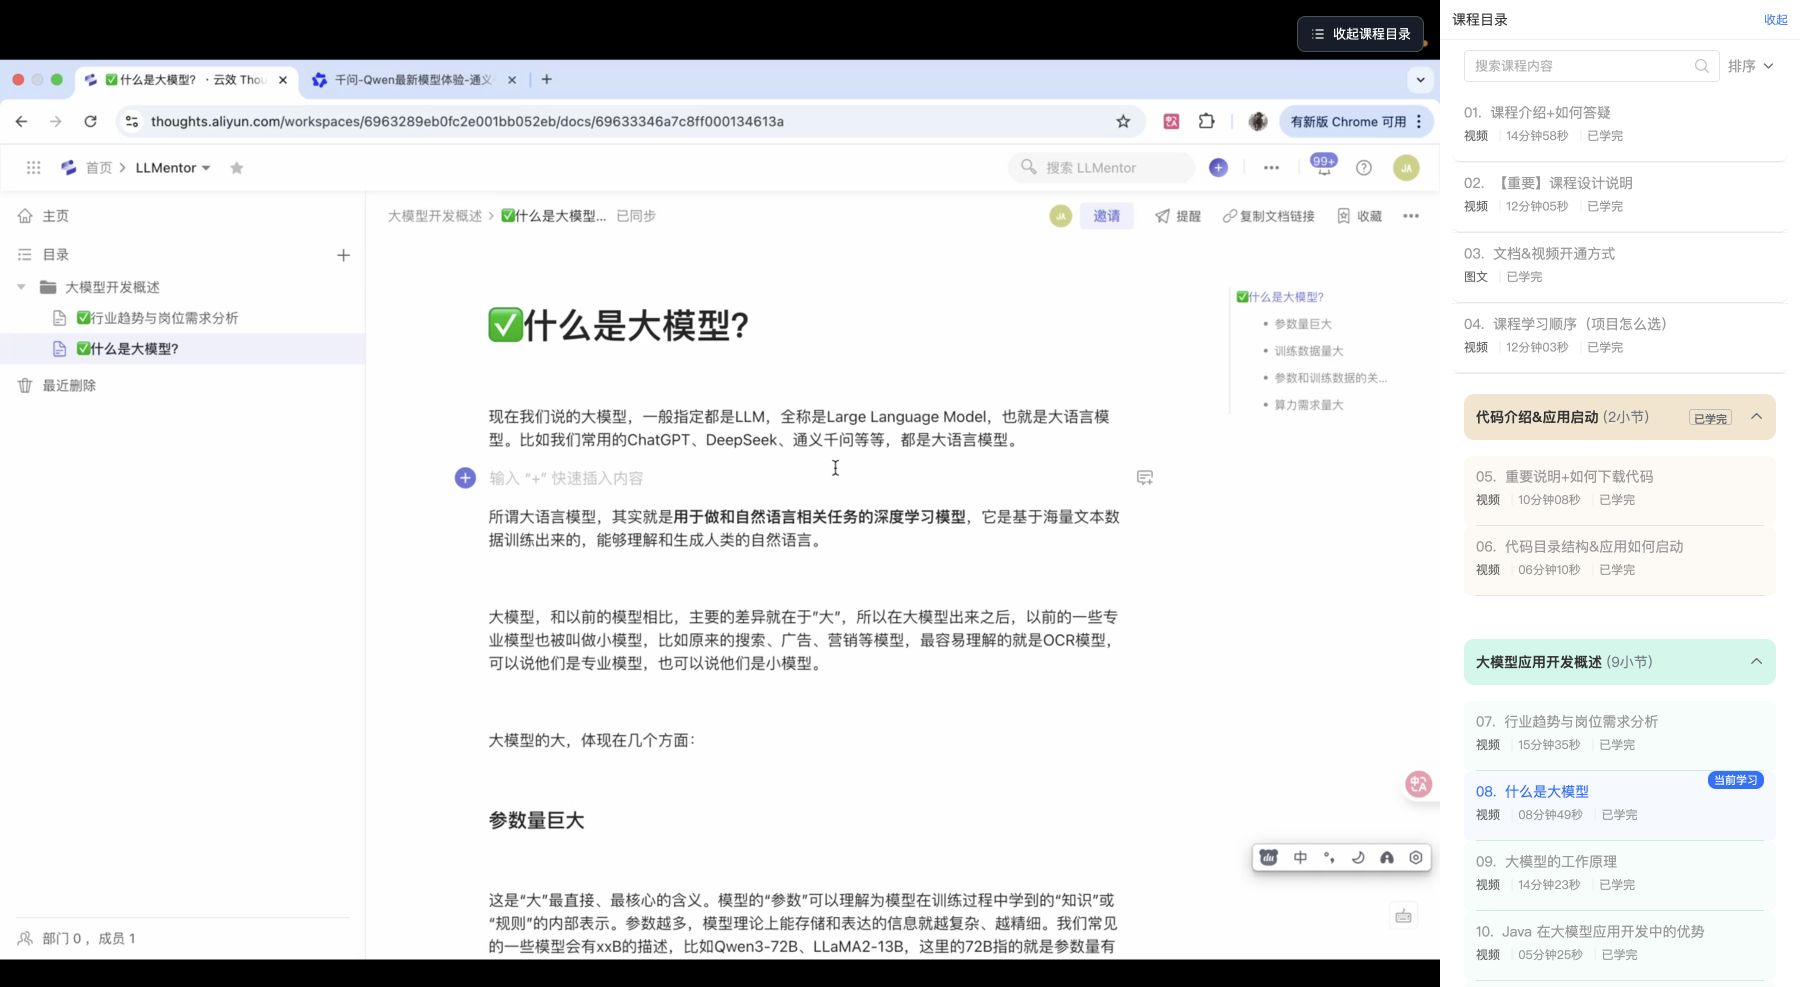
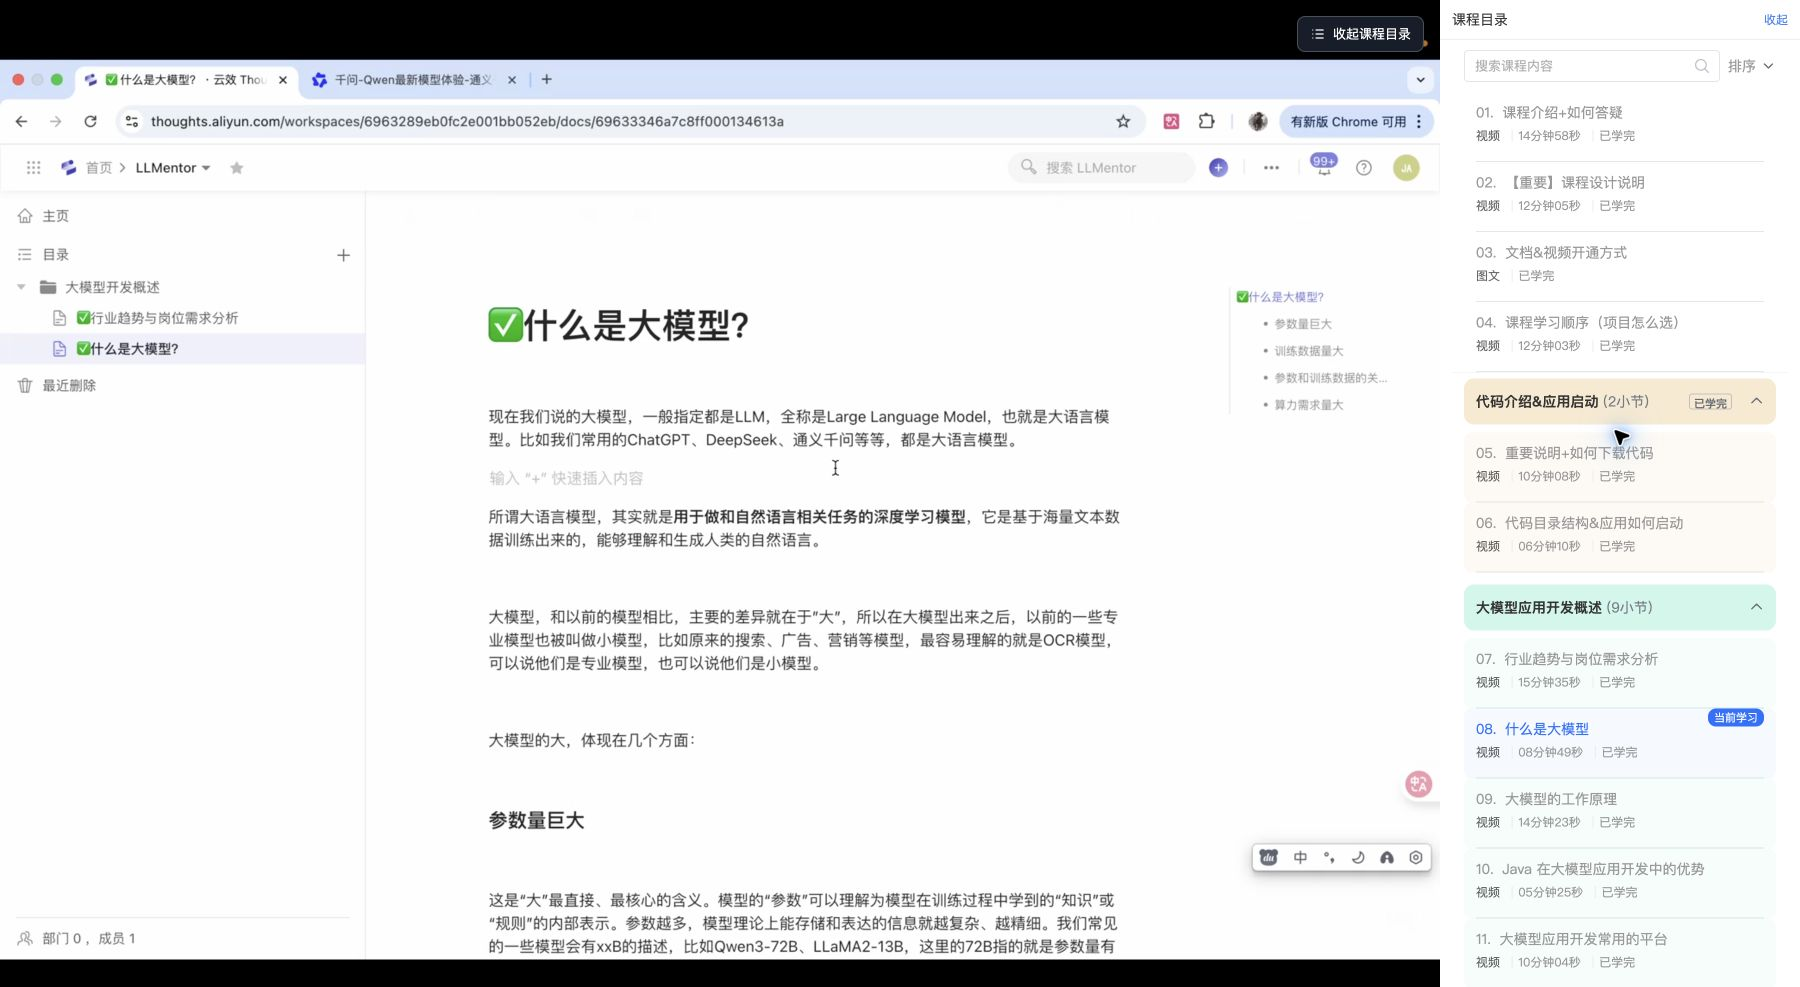
fix: align intro lessons and tighten chapter spacing

diff --git a/xiaoe-catalog-right.user.js b/xiaoe-catalog-right.user.js
@@ -1,7 +1,7 @@
 // ==UserScript==
 // @name         小鹅通课程目录搬到视频右侧
 // @namespace    https://github.com/joeljhou/xiaoe-catalog-right
-// @version      1.11.0
+// @version      1.11.1
 // @description  小鹅通视频右侧内嵌彩色课程目录，支持全屏搜索、左右调宽、右下角可拖动小猫，并记忆清晰度与倍速
 // @author       joeljhou
 // @license      MIT
@@ -163,8 +163,11 @@
       #xe-cat-body .catalog_box{padding:0 12px 16px !important;box-sizing:border-box !important;}
       #xe-cat-body #catalog_box,#xe-cat-body #infinite_list_location{height:auto !important;max-height:none !important;overflow:visible !important;}
       #xe-cat-body .camp_pro_content_catalog .catalog_box{padding:0 !important;}
-      /* 浅色章节标题；底色只用于标题，课时与当前学习状态沿用原站语义。 */
-      #xe-cat-body .el-collapse-item__header{min-height:46px !important;height:auto !important;width:auto !important;box-sizing:border-box !important;padding:10px 12px !important;margin:8px 12px !important;border:0 !important;border-radius:10px !important;background:var(--xe-chapter-color,#f8ead0) !important;color:#333 !important;line-height:21px !important;}
+      /* 统一章节间距，避免原站容器 padding 与标题 margin 叠加。 */
+      #xe-cat-body .chapter_item_box{padding:6px 0 !important;}
+      #xe-cat-body .catalog_list_collapse{border:0 !important;}
+      #xe-cat-body .el-collapse-item{margin:0 !important;}
+      #xe-cat-body .el-collapse-item__header{min-height:46px !important;height:auto !important;width:auto !important;box-sizing:border-box !important;padding:10px 12px !important;margin:0 12px !important;border:0 !important;border-radius:10px !important;background:var(--xe-chapter-color,#f8ead0) !important;color:#333 !important;line-height:21px !important;}
       #xe-cat-body .el-collapse-item__header:hover{filter:brightness(.98);}
       #xe-cat-body .el-collapse-item__header:focus-visible{outline:2px solid #4f6fa5 !important;outline-offset:2px;}
       #xe-cat-body .chapter_title_wrapper{display:flex !important;align-items:center !important;gap:8px;flex:1;min-width:0;}
@@ -174,12 +177,14 @@
       #xe-cat-body .el-collapse-item__arrow{flex-shrink:0;color:#626a73 !important;margin-left:8px !important;}
       #xe-cat-body .catalog_title,#xe-cat-body .title_slot,#xe-cat-body .chapter_title{font-size:14px !important;line-height:21px !important;}
       /* 展开课时使用章节同色的淡底与细分隔线，保留当前学习的蓝色高亮。 */
-      #xe-cat-body .el-collapse-item__wrap{border-bottom:0 !important;background:transparent !important;}
-      #xe-cat-body .el-collapse-item__content{padding-bottom:12px !important;}
-      #xe-cat-body .el-collapse-item .section_item_box{position:relative;margin:0 12px !important;width:calc(100% - 24px) !important;border:0 !important;border-radius:8px !important;}
+      #xe-cat-body .el-collapse-item__wrap{margin-top:8px !important;border-bottom:0 !important;background:transparent !important;}
+      #xe-cat-body .el-collapse-item__content{padding-bottom:0 !important;}
+      #xe-cat-body .infinite_list_chapter_children{margin:0 !important;}
+      #xe-cat-body .el-collapse-item .section_item_box,#xe-cat-body .catalog_list.sectionBox .section_item_box{position:relative;margin:0 12px !important;width:calc(100% - 24px) !important;border:0 !important;border-radius:8px !important;}
       #xe-cat-body .el-collapse-item .section_item_box:not(.last_study_bg){background:#faf8f4 !important;background:color-mix(in srgb,var(--xe-chapter-color,#f8ead0) 22%,white) !important;}
       #xe-cat-body .el-collapse-item .section_item_box::after{content:"";position:absolute;left:12px;right:12px;bottom:0;height:1px;background:color-mix(in srgb,var(--xe-chapter-color,#f8ead0) 65%,#cbd5e1);pointer-events:none;}
-      #xe-cat-body .catalog_list.sectionBox .section_item_box{border-bottom:1px solid #e5e7eb !important;}
+      #xe-cat-body .catalog_list.sectionBox{border:0 !important;}
+      #xe-cat-body .catalog_list.sectionBox .section_item_box::after{content:"";position:absolute;left:12px;right:12px;bottom:0;height:1px;background:#e5e7eb;pointer-events:none;}
       /* 课时条目：真实类名取自 CourseContentCatalog 源码（注意 setions/secitons 是原站拼写） */
       #xe-cat-body .section_item_box{padding:10px 12px !important;height:auto !important;min-height:70px !important;box-sizing:border-box !important;flex-shrink:0 !important;overflow:visible !important;}
       #xe-cat-body .cata_box_right{flex:1 1 auto !important;min-width:0 !important;}

diff --git a/README.md b/README.md
@@ -4,13 +4,13 @@
 
 边看视频，边找课程。把视频下方的目录搬到右侧，全屏也能搜索、切课；收起后，右下角的小猫帮你保留入口。
 
-**1.11.0** · [安装脚本](https://greasyfork.org/zh-CN/scripts/600209) · [MIT 许可证](LICENSE) · [更新记录](CHANGELOG.md)
+**1.11.1** · [安装脚本](https://greasyfork.org/zh-CN/scripts/600209) · [MIT 许可证](LICENSE) · [更新记录](CHANGELOG.md)
 
 ## 一眼看懂
 
 ![原站目录在视频下方，安装后目录内嵌在视频右侧](docs/images/before-after.png)
 
-以上是同一课程的真实 Chrome 页面截图：左侧为未启用本脚本，右侧为启用 1.11.0。截图裁掉顶部账号导航，并隐藏账号水印；其余页面内容为实际渲染。
+以上是同一课程的真实 Chrome 页面截图：左侧为未启用本脚本，右侧为启用 1.11.1。截图裁掉顶部账号导航，并隐藏账号水印；其余页面内容为实际渲染。
 
 ## 全屏也能找课
 
@@ -28,7 +28,7 @@
 
 ## 章节更好找
 
-章节标题用柔和浅色区分，展开的课时用同色系淡底与细分隔线承接。「当前学习」继续保持蓝色高亮，搜索或排序后章节颜色不变。
+独立课时、章节标题与展开课时统一左右缩进，章节间距保持紧凑。章节标题用柔和浅色区分，展开的课时用同色系淡底与细分隔线承接。「当前学习」继续保持蓝色高亮，搜索或排序后章节颜色不变。
 
 ![浅色章节标题、同色系课时底色和当前学习高亮](docs/images/chapters.png)
 
@@ -65,6 +65,6 @@
 node --check xiaoe-catalog-right.user.js
 ```
 
-1.11.0 本地模拟页面通过 37 项检查，覆盖右下角默认位置、窗口变化、拖动与点击、键盘操作、仅左右调宽、内嵌高度、搜索、全屏与切课回归；另在用户 Chrome 的真实课程页检查内嵌布局、网页全屏、搜索和收起入口，并截图。模拟测试与单个课程实测不能代表所有课程页。
+1.11.0 本地模拟页面通过 37 项检查，覆盖右下角默认位置、窗口变化、拖动与点击、键盘操作、仅左右调宽、内嵌高度、搜索、全屏与切课回归；另在用户 Chrome 的真实课程页检查内嵌布局、网页全屏、搜索和收起入口，并截图。1.11.1 的样式调整在真实页测量确认独立课时与章节同宽、同缩进，折叠间距 12px、展开标题与课时间距 8px。模拟测试与单个课程实测不能代表所有课程页。
 
 Logo 为原创 SVG，`assets/` 包含源文件及多尺寸 PNG；脚本内嵌 64px 图标，无需外部图片请求。

diff --git a/CHANGELOG.md b/CHANGELOG.md
@@ -2,6 +2,11 @@
 
 以下记录保留各版本发布时的行为；当前版本只支持左右调宽，并已移除桌面悬浮、嵌回网页和拖动目录标题栏。
 
+## 1.11.1 更新
+
+- 01–04 等独立课时与章节标题、展开课时统一左右缩进及分隔线范围。
+- 去除原站容器与标题叠加的留白，折叠章节之间保持 12px 间距，展开标题与课时相隔 8px。
+
 ## 1.11.0 更新
 
 - 移除桌面悬浮、嵌回网页以及拖动目录标题栏的功能，目录始终保持网页内嵌或全屏右栏。
